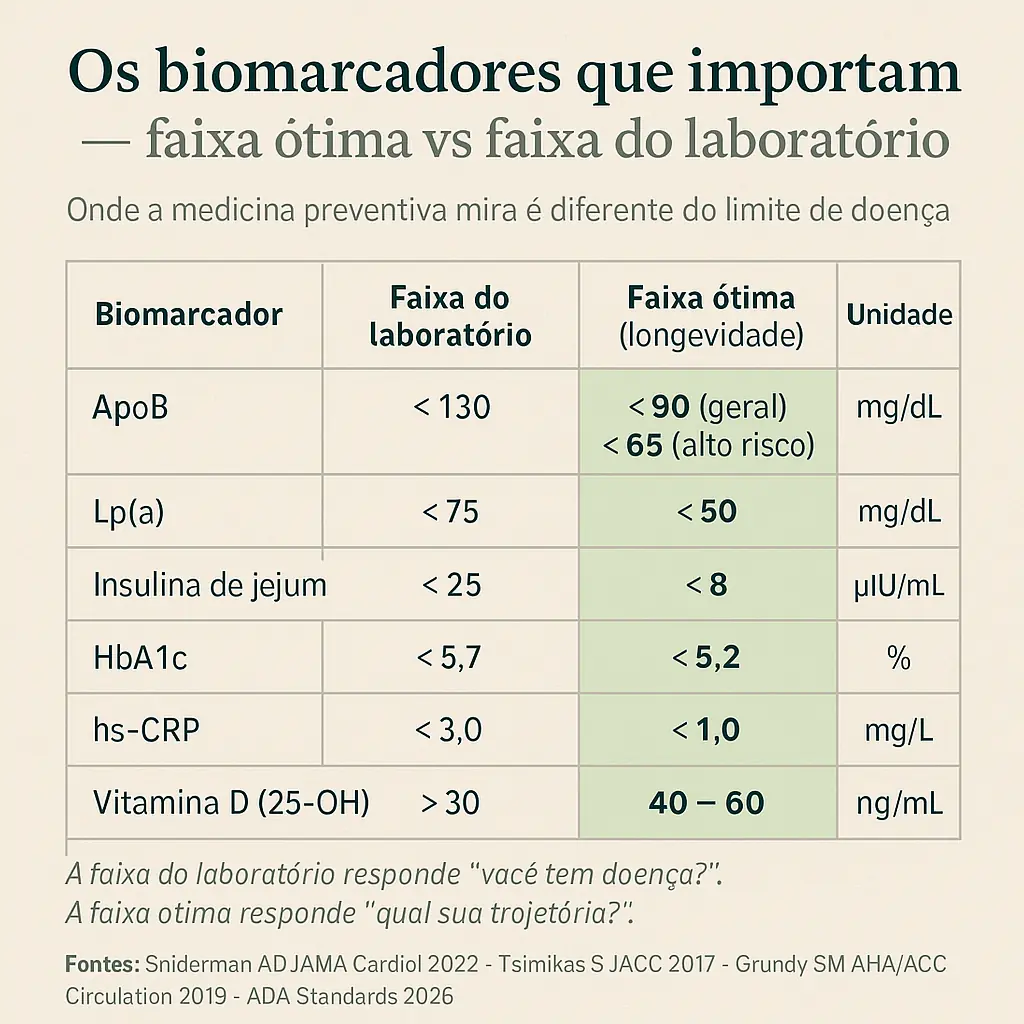
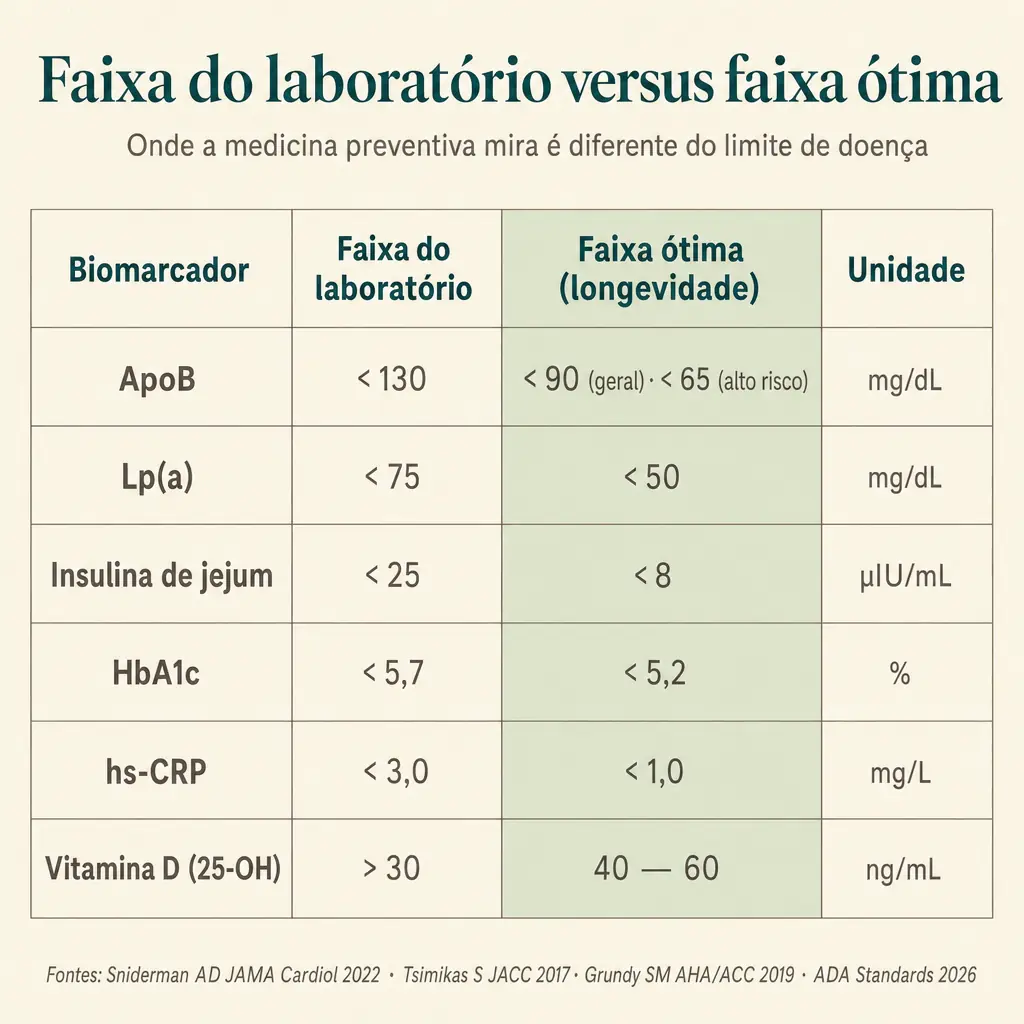
fix(site/blog): regerar 30 figuras com gpt-image-2 (texto PT correto)
- Trocados scripts gen-figure.sh, gen-image.sh, gen-illust.sh para
  usar gpt-image-2 (lançado 21/04/2026) — modelo com renderização
  de texto muito superior ao gpt-image-1 que estava sendo usado.
- Refeitos os 30 infográficos do blog (28 artigos × 1 figura + 2
  extras em piramide-invertida e 12-exames) com acentos e palavras
  técnicas em português corretos.
- CLAUDE.md atualizado com regra: usar gpt-image-2 para imagens.

diff --git a/CLAUDE.md b/CLAUDE.md
@@ -99,6 +99,19 @@ docker compose exec db psql -U plenya_user -d plenya_db -c "\d score_items"
 pnpm generate  # Gera: migrations, OpenAPI, TypeScript types, Zod schemas
 ```
 
+### 🖼 Geração de Imagens (OpenAI)
+
+**Modelo correto:** `gpt-image-2` (lançado 21/04/2026 — o snapshot é `gpt-image-2-2026-04-21`).
+
+NÃO use `gpt-image-1` (gerava texto PT errado) nem `dall-e-3` (legado).
+
+Usar `gpt-image-2` quando precisar gerar imagens. Wrappers em `scripts/blog-generator/`:
+- `gen-figure.sh` — infográficos no estilo do livro Antes (charts/diagramas com dados reais, paleta Plenya)
+- `gen-image.sh` — imagens editoriais (hero atmosférico)
+- `gen-illust.sh` — ilustrações conceituais
+
+Endpoint: `POST https://api.openai.com/v1/images/generations` com `"model": "gpt-image-2"`. Retorna base64 em `data[0].b64_json`.
+
 ### Enrichment Científico Automatizado (RAG + Claude)
 
 **Scripts prontos em `scripts/enrichment/`:**
